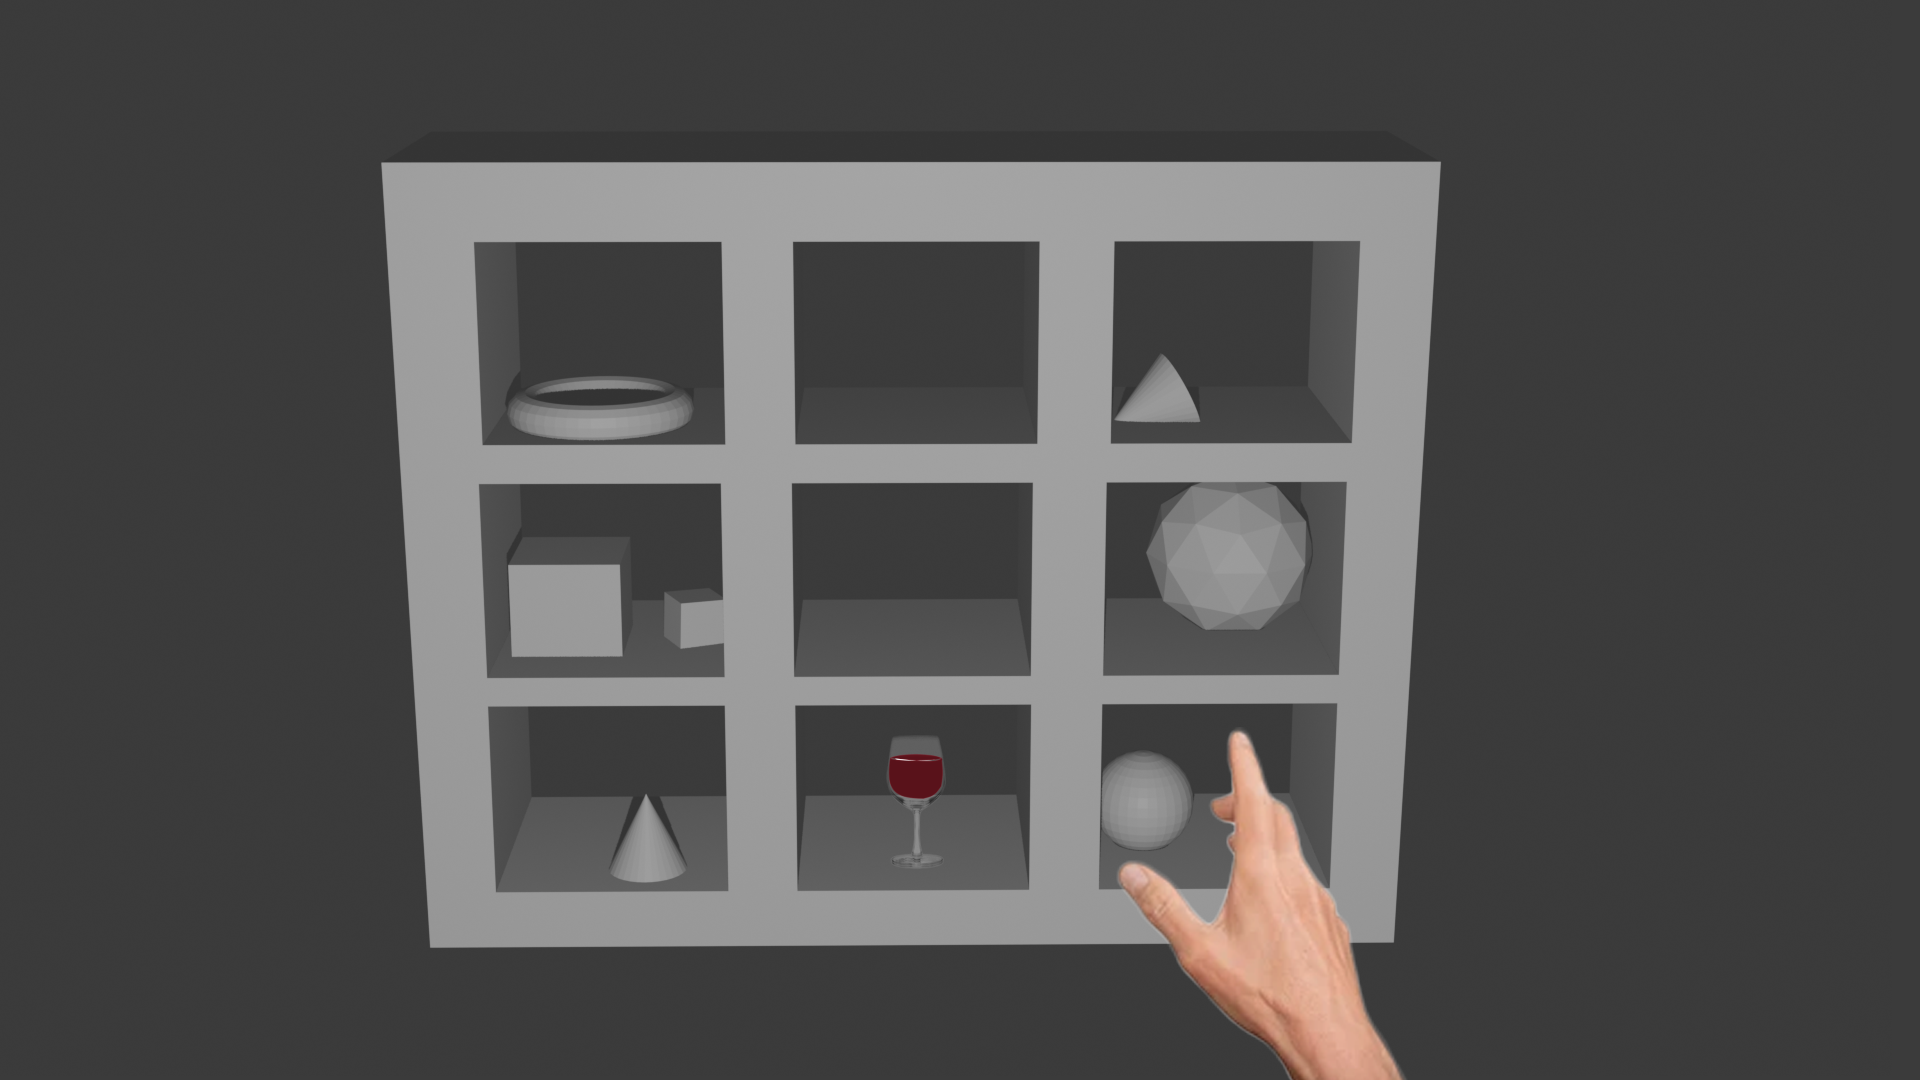
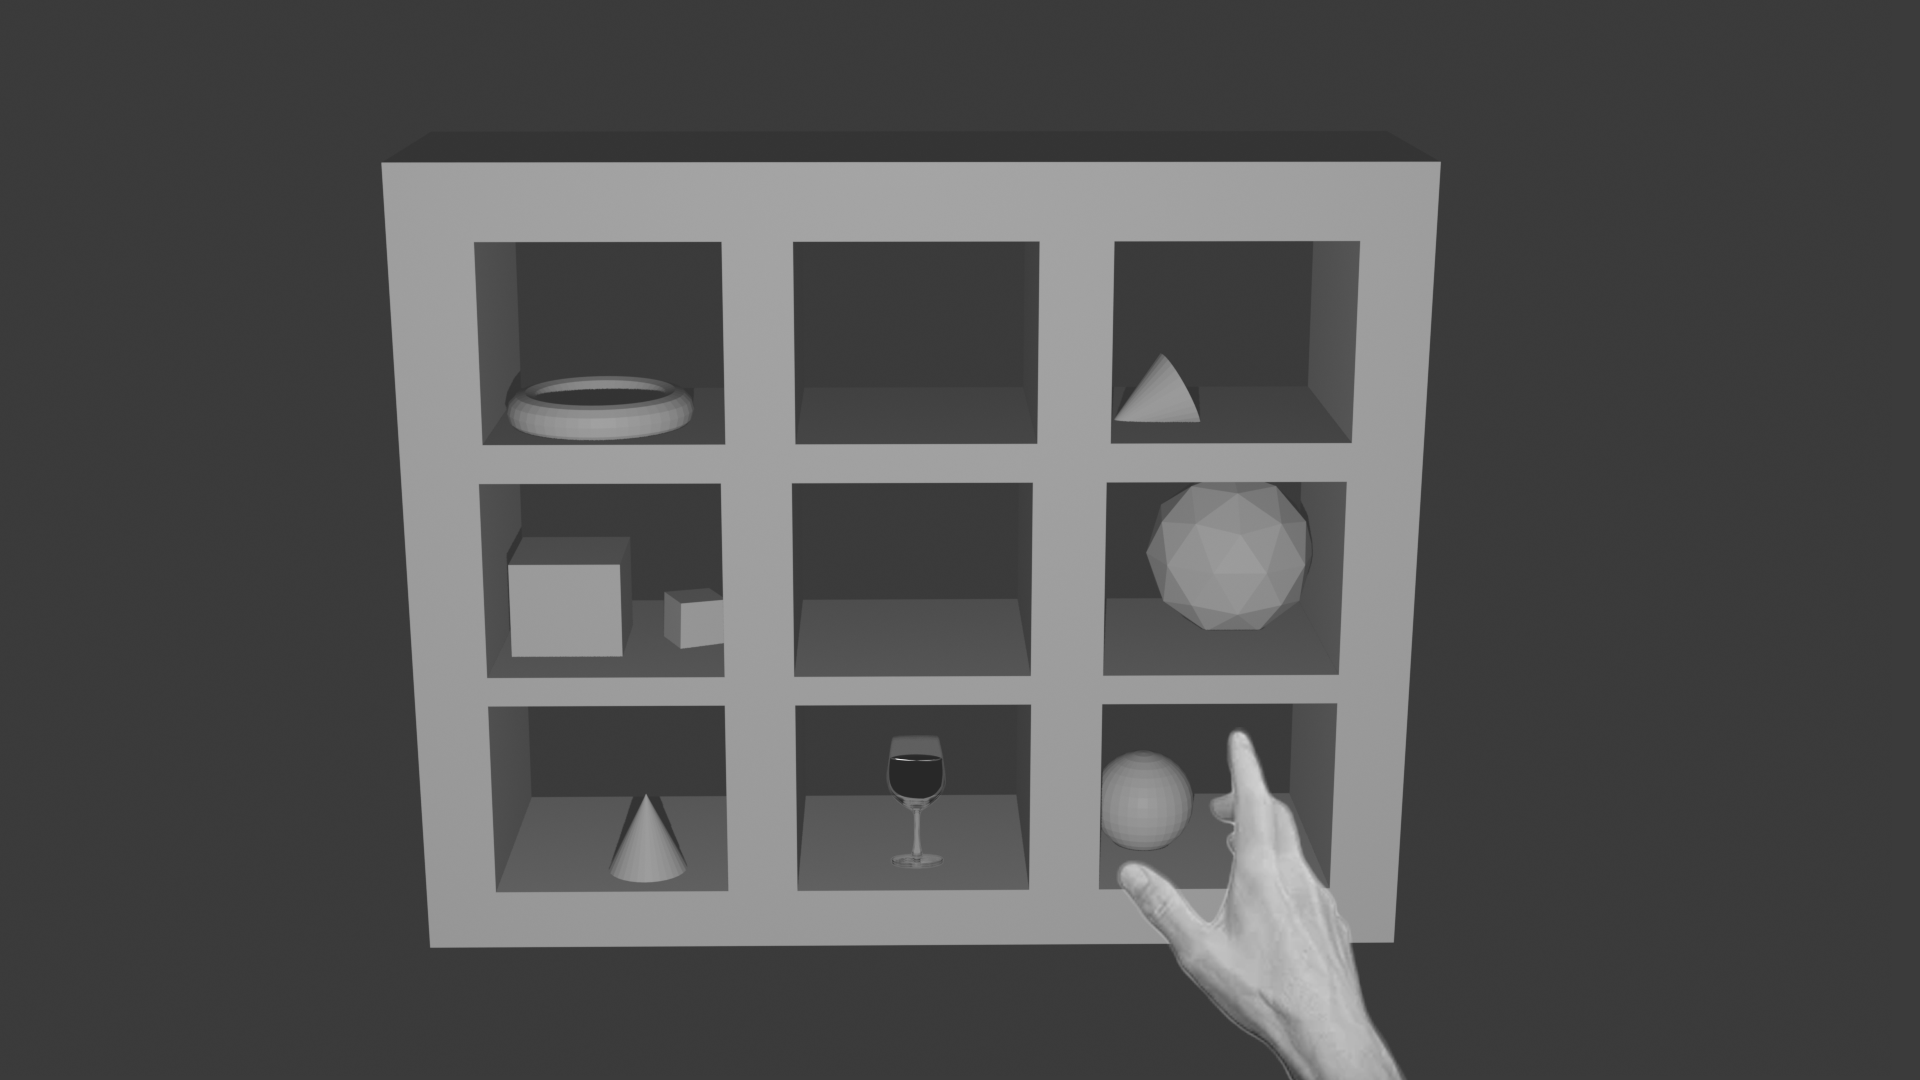
Converts all stimuli to greyscale, adds debrief_df ability to analyze_experiment.

Changed region(s): [[0.5625, 0.6722, 0.75, 1.0], [0.4375, 0.7028, 0.5, 0.7333]]

diff --git a/src/assets/stimuli/greyscale.py b/src/assets/stimuli/greyscale.py
@@ -1,0 +1,7 @@
+import glob 
+from PIL import Image 
+
+for name in glob.glob('cabinets/*.png'):
+    print(name)
+    img = Image.open(name).convert('L')
+    img.save(name)
